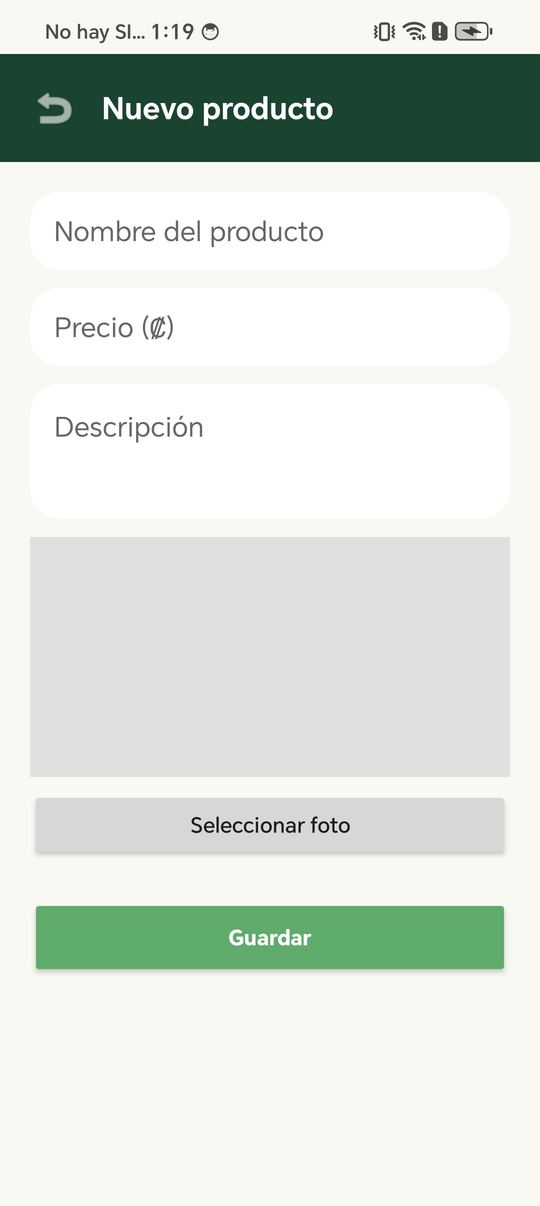
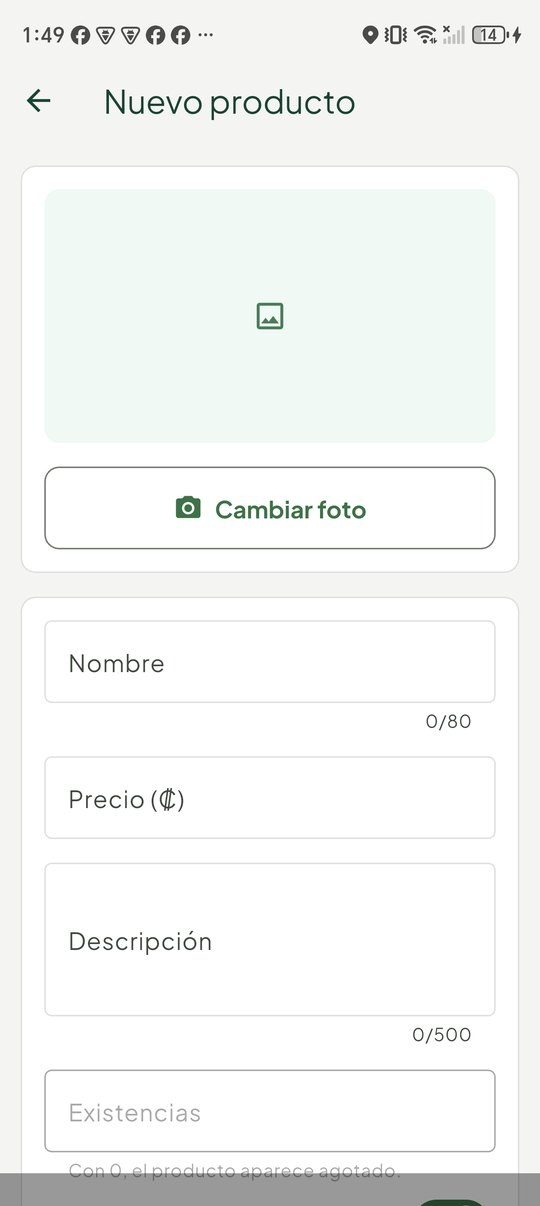
Landing: capturas de las apps Flutter en lugar de las de Kotlin
Las 15 pantallas del showcase (y las dos de la portada) salen de las apps
nuevas; títulos y descripciones ajustados a lo que hacen hoy.

diff --git a/index.html b/index.html
@@ -928,25 +928,25 @@ document.querySelectorAll('.reveal').forEach(el => observer.observe(el));
 // Pantallas principales de cada app: [anexo, título, clase, descripción]
 const SCREENS = {
   cliente: [
-    [5, "Inicio y catálogo", "HomeFragment", "Productores cercanos, promociones y búsqueda de productos en un solo lugar."],
-    [6, "Carrito de compra", "CarritoFragment", "Ajustá cantidades, revisá el total y pagá con tarjeta o en efectivo."],
-    [8, "Seguimiento en tiempo real", "SeguimientoFragment", "El repartidor en el mapa, el estado del pedido y el código de entrega."],
-    [7, "Mis pedidos", "HistorialFragment", "El historial con el estado de cada orden: entregada, cancelada o en curso."],
-    [12, "Mi perfil", "ConfiguracionFragment", "Créditos, direcciones guardadas, soporte y configuración de la cuenta."],
+    [5, "Inicio y catálogo", "PantallaPrincipal", "Productores cercanos, búsqueda por producto o categoría y la dirección de entrega a mano."],
+    [6, "Carrito de compra", "PestanaCarrito", "Ajustá cantidades con la foto de cada producto, revisá el subtotal y pagá en efectivo."],
+    [8, "Seguimiento en tiempo real", "PantallaSeguimiento", "El repartidor en el mapa, cuánto falta, cada etapa del pedido y el código de entrega."],
+    [7, "Mis pedidos", "PestanaPedidos", "El historial con el estado de cada orden: entregada, cancelada o en curso."],
+    [12, "Mi perfil", "PestanaPerfil", "Créditos, direcciones guardadas, configuración y ayuda."],
   ],
   proveedor: [
-    [24, "Registro guiado", "RegistroProveedorActivity", "Cuatro pasos: cuenta, ubicación, imágenes y al menos cinco productos."],
-    [28, "Gestión de tienda", "TiendaActivity", "Logo, banner, descripción, categoría y ubicación de la tienda."],
-    [30, "Mis productos", "ProductosActivity", "El catálogo publicado, con fotos y precios, listo para vender."],
-    [31, "Nuevo producto", "ProductoEditActivity", "Nombre, precio, descripción y foto para sumar un producto al catálogo."],
-    [32, "Bandeja de pedidos", "PedidosFragment", "Pedidos pendientes, en curso e historial, separados por pestañas."],
+    [24, "Crear cuenta", "PantallaCrearCuenta", "Correo o Google, y después un registro guiado en cuatro pasos para abrir la tienda."],
+    [28, "Gestión de tienda", "PestanaTienda", "Logo, banner, descripción, categoría y ubicación de la tienda."],
+    [30, "Mis productos", "PestanaProductos", "El catálogo publicado, con fotos, precios y existencias, listo para vender."],
+    [31, "Nuevo producto", "PantallaEditorProducto", "Nombre, precio, descripción, existencias y foto para sumar un producto al catálogo."],
+    [32, "Bandeja de pedidos", "PestanaPedidos", "Pedidos nuevos, en preparación y listos, con su historial aparte."],
   ],
   repartidor: [
-    [17, "Panel principal", "DashboardRepartidorActivity", "Ganancias y viajes del día, y el botón para empezar a buscar pedidos."],
-    [18, "Buscando pedidos", "RepartirActivity", "Busca pedidos cercanos ampliando el radio poco a poco, desde 5 km."],
-    [19, "¡Nuevo pedido!", "RepartirActivity", "Ganancia estimada, punto de recogida y dirección de entrega, listo para aceptar."],
-    [21, "Reporte semanal", "ReporteRepartidorActivity", "Ganancias y entregas completadas durante la semana."],
-    [20, "Perfil del repartidor", "PerfilRepartidorActivity", "Calificación, reseñas y total de entregas realizadas."],
+    [17, "Panel principal", "PantallaInicio", "Disponibilidad, ganancias de hoy y de la semana, y la búsqueda de pedidos."],
+    [18, "Buscando pedidos", "PantallaBuscando", "Mientras estás disponible, AgroVía te ofrece los pedidos de las tiendas más cercanas."],
+    [19, "¡Pedido para ti!", "AvisoOferta", "Ganancia, punto de recogida y dirección de entrega, con unos segundos para aceptar."],
+    [21, "Ganancias", "PestanaGanancias", "Ganancias y entregas del día y de la semana, día por día."],
+    [20, "Perfil del repartidor", "PestanaPerfil", "Datos, vehículo y calificación del repartidor."],
   ],
 };
 
